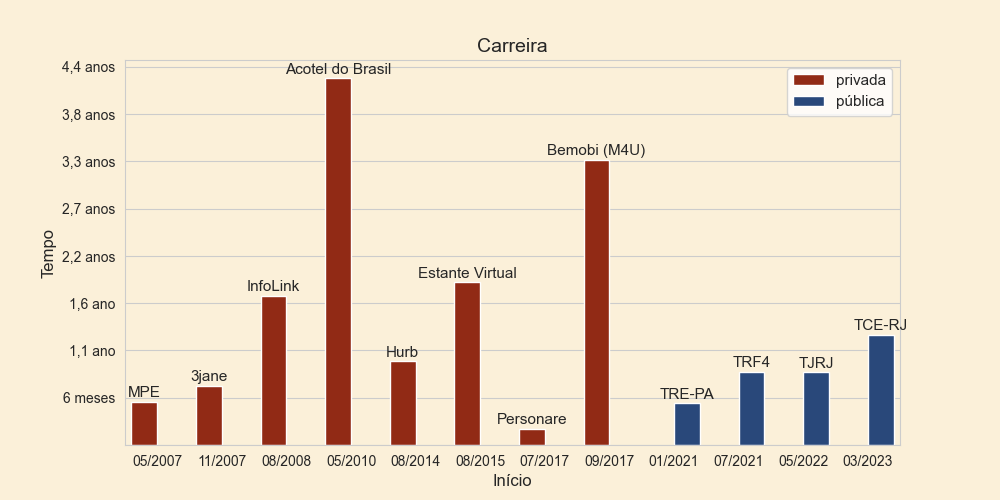
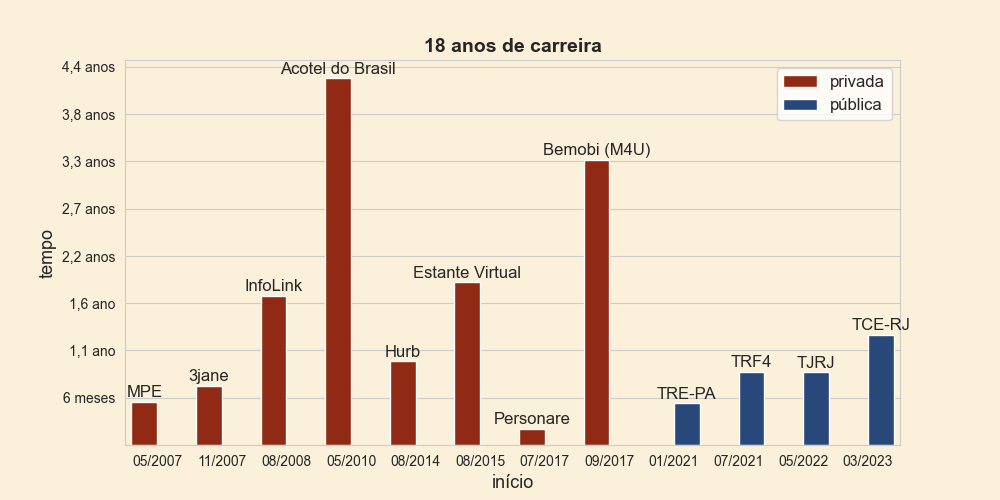
Update

diff --git a/carreira/__main__.py b/carreira/__main__.py
@@ -1,4 +1,5 @@
 from datetime import datetime
+import math
 from os import path
 
 import matplotlib.pyplot as plt
@@ -14,16 +15,13 @@ def format_date(date: str) -> datetime:
 
 def format_y_axis(y_param: int, _pos: int) -> str:
     y_axis = ''
-
     anos = y_param / 365
 
     if anos >= 1:
         ano_str = 'anos' if anos >= 2 else 'ano'
-
         y_axis = f'{anos:.1f} {ano_str}'.replace('.', ',')
     elif y_param > 0:
         meses = int(np.mod(y_param, 365) / 30)
-
         y_axis = f'{meses} meses'
 
     return y_axis
@@ -39,8 +37,11 @@ def main() -> None:
     carreira['entrada'] = carreira['entrada'].apply(format_date)
     carreira['saida'] = carreira['saida'].apply(format_date)
     carreira['dias'] = (carreira['saida'] - carreira['entrada']).dt.days + 1
-
     carreira['inicio'] = carreira['entrada'].dt.strftime('%m/%Y')
+
+    first_entry = carreira['entrada'].min()
+    last_exit = carreira['saida'].max()
+    total_years = math.ceil((last_exit - first_entry).days / 365)
 
     bgcolor = '#fbf0d9'
 
@@ -50,14 +51,16 @@ def main() -> None:
 
     formatter = ticker.FuncFormatter(format_y_axis)
     ax.yaxis.set_major_formatter(formatter)
+    ax.tick_params(axis='x', labelsize=10)
+    ax.tick_params(axis='y', labelsize=10)
 
     sns.barplot(data=carreira, x='inicio', y='dias', hue='esfera', palette=sns.color_palette(['#a61c00', '#1c4587']),
                 ax=ax)
 
-    plt.title('Carreira', fontsize=14)
-    plt.xlabel('Início', fontsize=12)
-    plt.ylabel('Tempo', fontsize=12)
-    plt.legend(fontsize=11)
+    plt.title(f'{total_years} anos de carreira', fontsize=14, weight='bold')
+    plt.xlabel('início', fontsize=13)
+    plt.ylabel('tempo', fontsize=13)
+    plt.legend(fontsize=12)
 
     for container in ax.containers:
         for rect in container:
@@ -65,7 +68,7 @@ def main() -> None:
             x_pos = rect.get_x() + rect.get_width() / 2
             y_pos = height + 20
             text = carreira.iloc[container.index(rect)]['instituicao']
-            ax.annotate(text, xy=(x_pos, y_pos), ha='center', fontsize=11)
+            ax.annotate(text, xy=(x_pos, y_pos), ha='center', fontsize=12)
 
     plt.savefig(path.join(script_dir, 'carreira.png'))
     plt.show()
